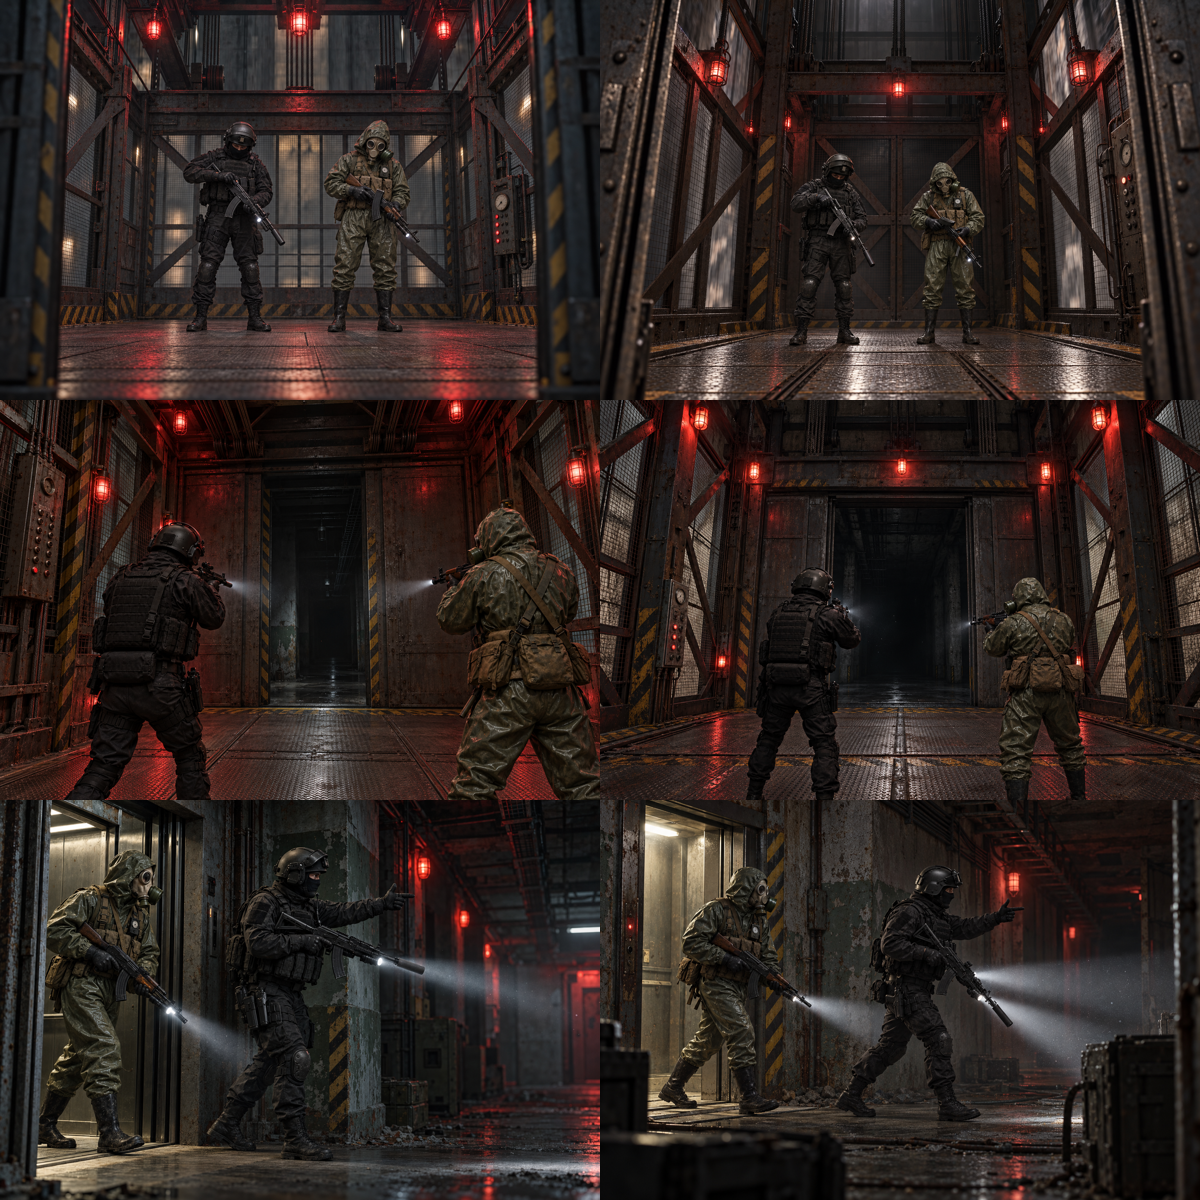
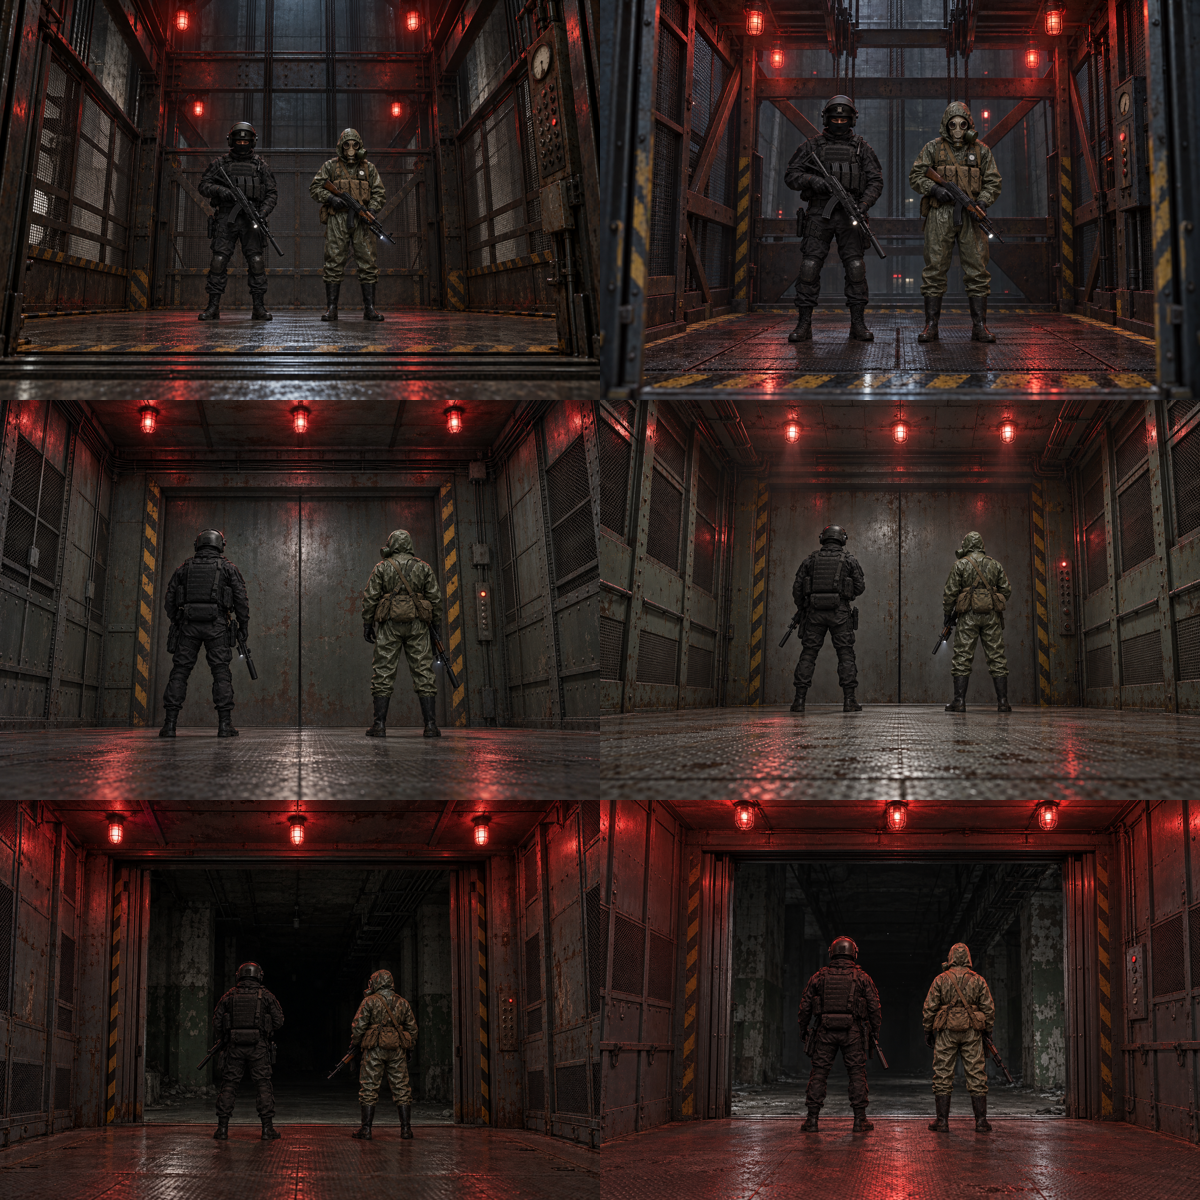
Spectator: +/- step simulation speed x1..x60

diff --git a/game/src/Client/Main.cs b/game/src/Client/Main.cs
@@ -304,7 +304,7 @@ namespace Rastvordd.Client
             _spectate = System.Array.IndexOf(OS.GetCmdlineUserArgs(), "--spectate") >= 0;
             _autoCam = _spectate && System.Array.IndexOf(OS.GetCmdlineUserArgs(), "--autocam") >= 0;
             var spd = System.Array.Find(OS.GetCmdlineUserArgs(), x => x.StartsWith("--speed="));
-            if (spd != null && int.TryParse(spd[8..], out int ts)) _timeScale = System.Math.Clamp(ts, 1, 20);   // скорость мира с самого старта
+            if (spd != null && int.TryParse(spd[8..], out int ts)) _timeScale = System.Math.Clamp(ts, 1, 60);   // скорость мира с самого старта
             _myId = _spectate ? _server.ConnectSpectator() : _server.Connect("Игрок");
             // летопись вайпа — всегда: обычная игра и песочница пишут в user://chronicle, отладка — куда скажут (--chronicle=путь)
             try
@@ -811,8 +811,22 @@ int bi = p.Length > 1 ? int.Parse(p[1]) : 0;
                 case Key.Key4: _timeScale = 8; return true;
                 case Key.Key5: _timeScale = 10; return true;
                 case Key.Key6: _timeScale = 20; return true;
+                // плюс/минус — шаг скорости по лестнице (×1 … ×60)
+                case Key.Equal: case Key.KpAdd: StepTimeScale(1); return true;
+                case Key.Minus: case Key.KpSubtract: StepTimeScale(-1); return true;
             }
             return false;
+        }
+
+        static readonly int[] TimeSteps = { 1, 2, 3, 4, 6, 8, 10, 15, 20, 30, 40, 60 };
+
+        void StepTimeScale(int dir)
+        {
+            int i = System.Array.FindIndex(TimeSteps, v => v >= _timeScale);
+            if (i < 0) i = TimeSteps.Length - 1;
+            i = System.Math.Clamp(i + dir, 0, TimeSteps.Length - 1);
+            _timeScale = TimeSteps[i];
+            _hud.Toast($"Скорость ×{_timeScale}");
         }
 
         /// <summary>
